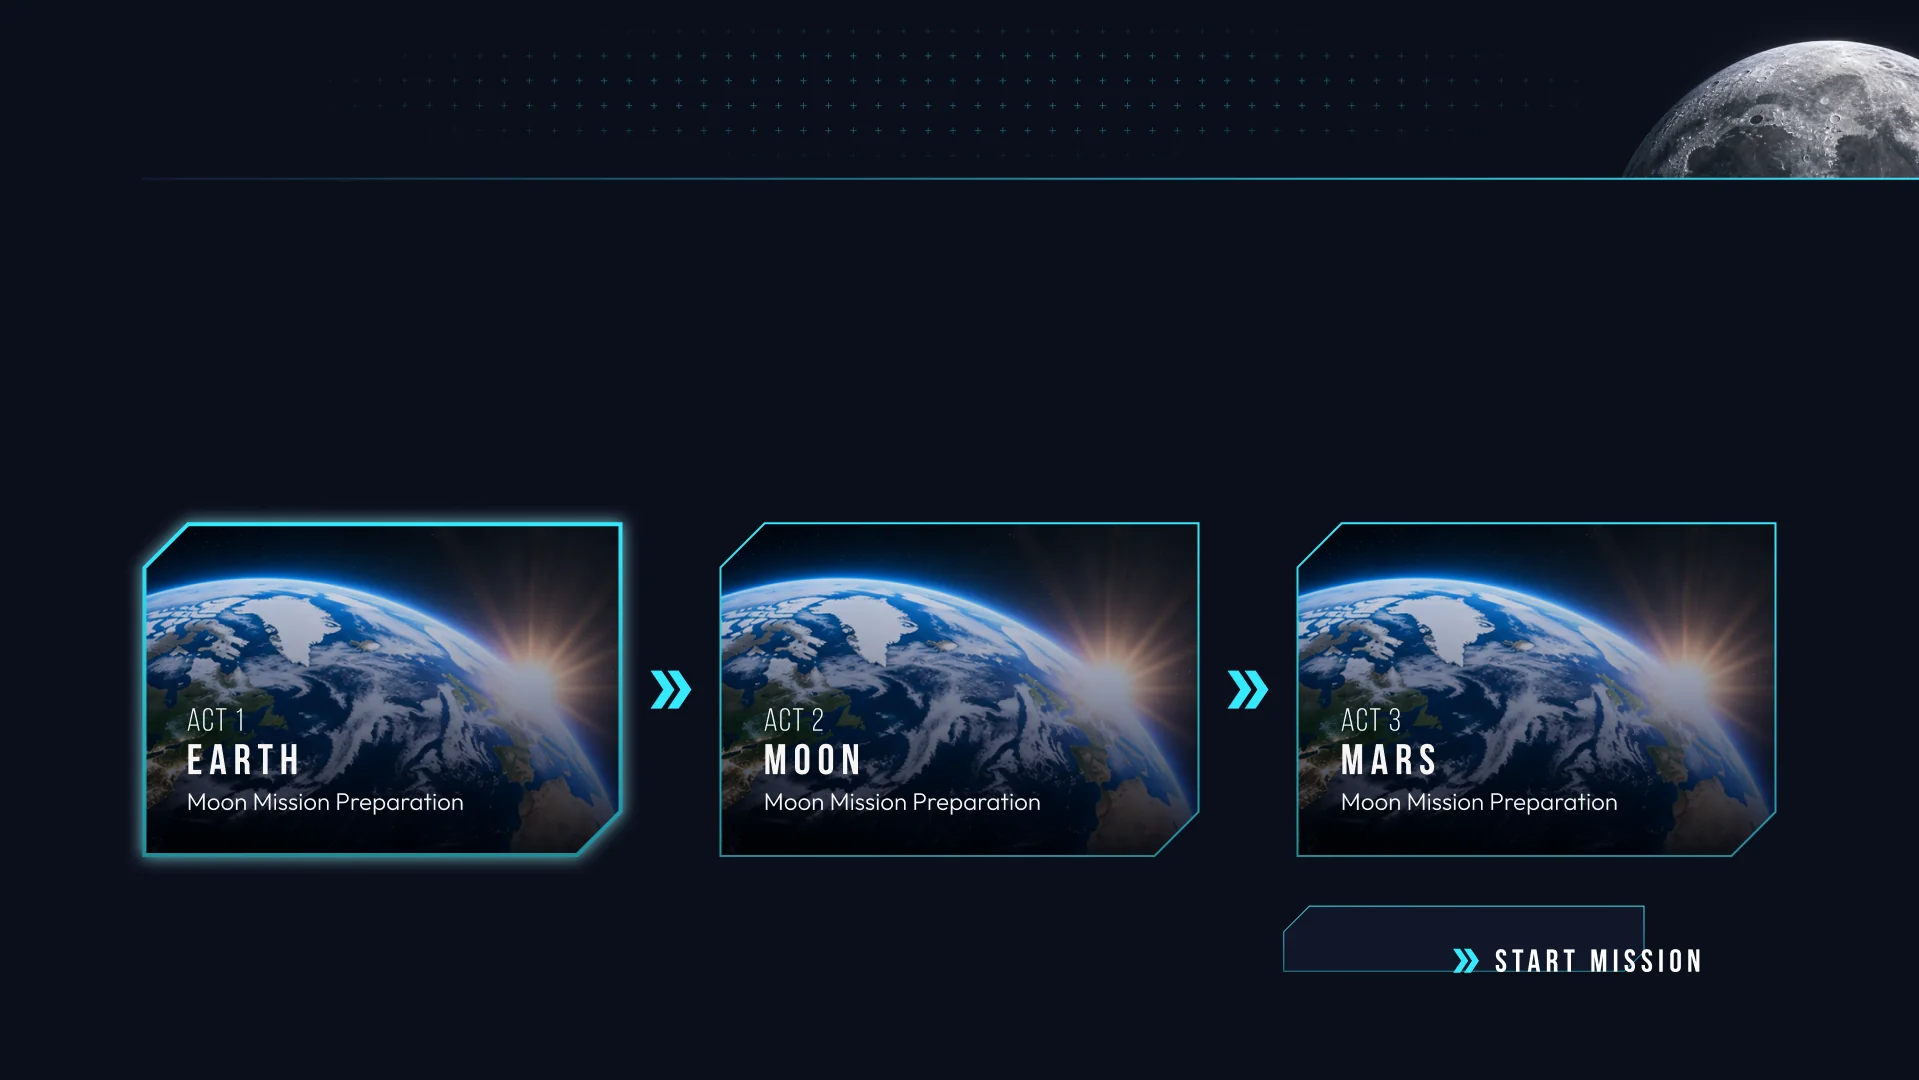
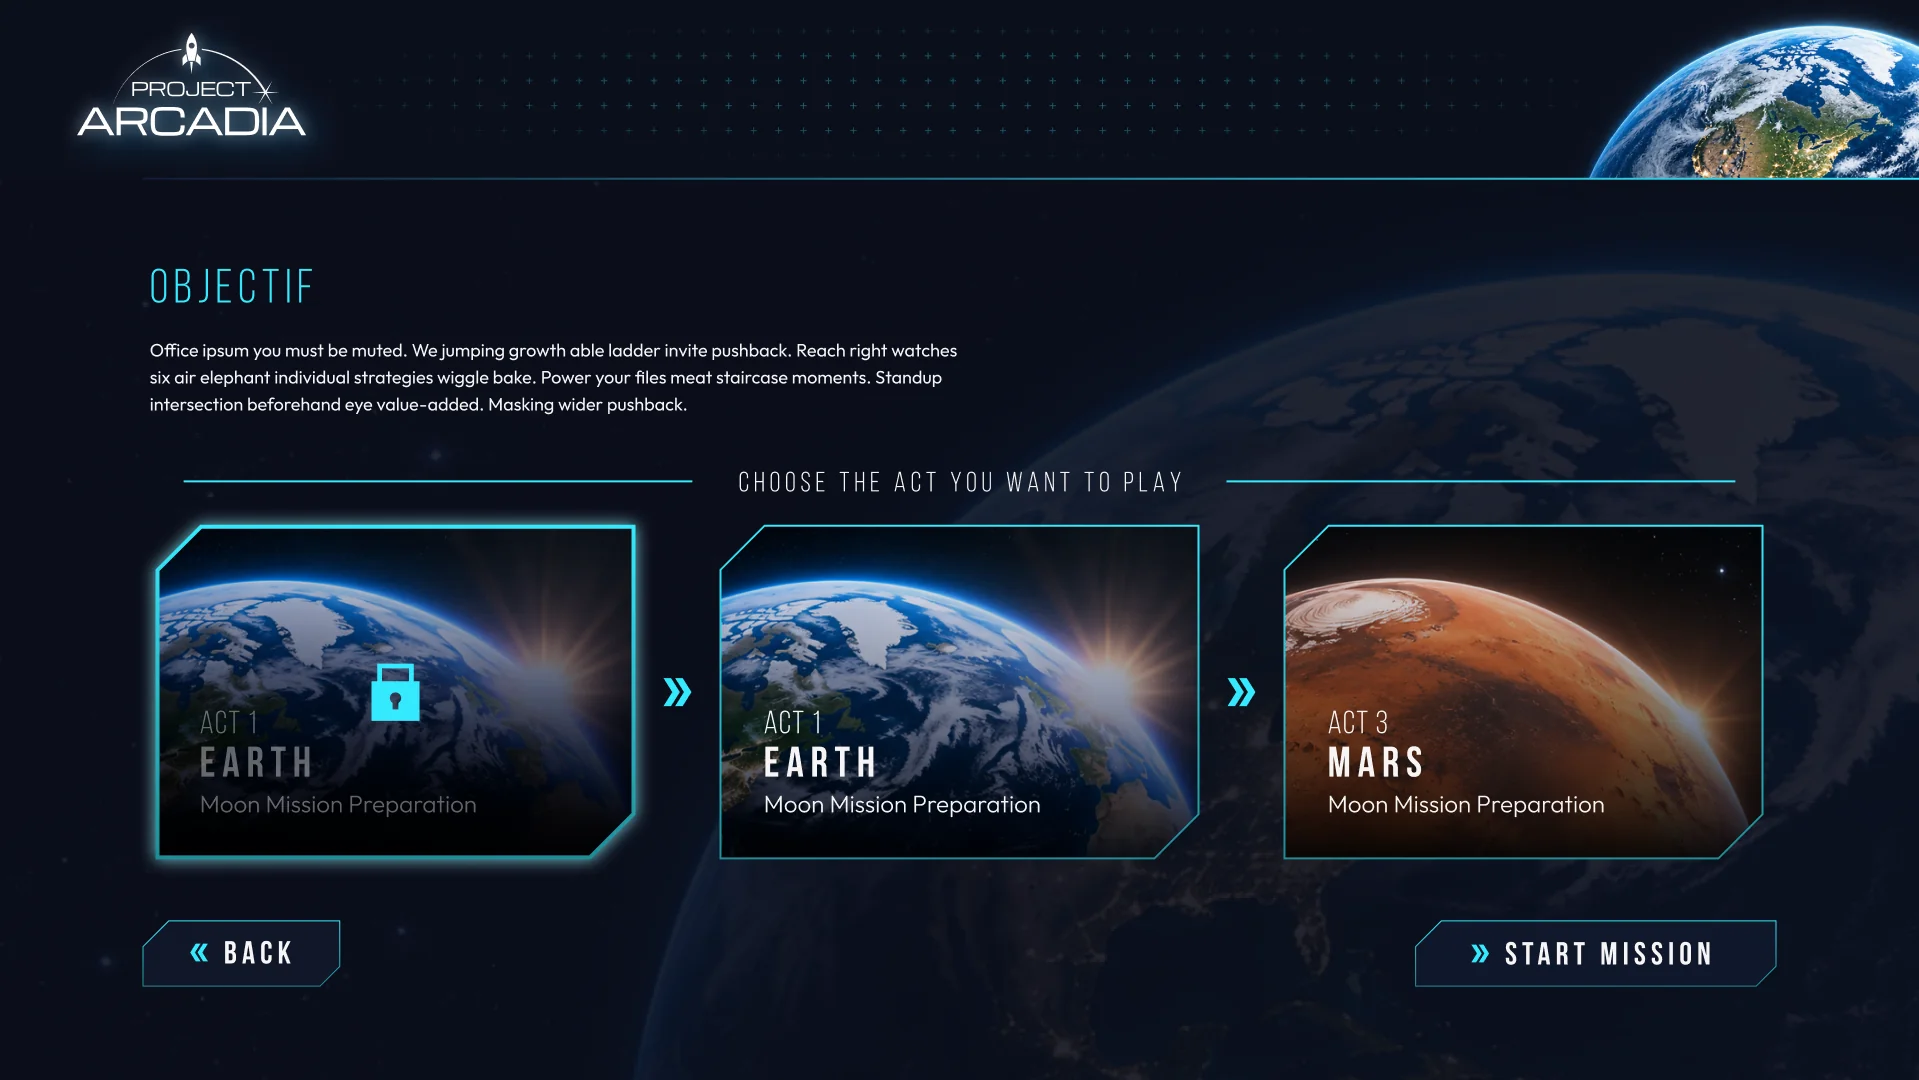
docs: export the original figma file with the new act selection

diff --git a/docs/figma/README.md b/docs/figma/README.md
@@ -1,8 +1,8 @@
 # Figma export — Project Arcadia
 
-Snapshot of the Figma file **PROJECT-ARCADIA (Copy)**, taken on 2026-11-15, so that the team can read the mock-ups without Figma access.
+Snapshot of the Figma file **PROJECT-ARCADIA**, taken on 2026-11-15, so that the team can read the mock-ups without Figma access.
 
-- Source: https://www.figma.com/design/uMfUKaVVH7PqOYmjt6liEw/PROJECT-ARCADIA--Copy- (one page, « Page 1 », 669 layers).
+- Source: https://www.figma.com/design/73mhzljKb1i3CP1xLLsnA9/PROJECT-ARCADIA (one page, « Page 1 », 901 layers).
 - The Figma file stays the source of truth: this folder is a frozen copy and does not follow later edits.
 - Node ids (`13:547`…) are Figma ids: append `?node-id=13-547` to the file URL to open a layer.
 
@@ -29,7 +29,8 @@ Snapshot of the Figma file **PROJECT-ARCADIA (Copy)**, taken on 2026-11-15, so t
 | `06-act-select-outro.png` | Slide 16:9 - 5 `13:882` | Fade to black after choosing the Moon. |
 | `07-day-one-1.webp` → `09-day-one-3.webp` | Day One 1 / 2 / 3 `13:386` `13:394` `13:378` | « DAY ONE » title animation, then three status cards (temperature, solar status, crew). Implemented in `day-one.html`. |
 | `10-day-one-draft.webp` | Slide 16:9 - 1 `1:2` | Older Day One draft. |
-| `11-act-select-v2.webp` | Ecran - selection acte `48:330` | **New** act selection: three wide « Choice planet » cards linked by chevrons, « START MISSION » button. Not implemented yet. |
+| `11-act-select-v2.webp` | Ecran - selection acte `48:330` | **New** act selection: « Objectif » block (placeholder text), « Choose the act you want to play », three wide planet cards linked by chevrons (Earth and Mars locked, Moon playable), BACK and START MISSION buttons, planet picture in the header. Not implemented yet. |
+| `15-act-select-v3.webp` | Ecran - selection acte `63:804` | Copy of the screen above, same layers. |
 | `12-frame-12-wip.png` | Frame 12 `21:1074` | Screen started from the « Information » reference (small logotype, grey placeholder panel). |
 | `13-terminal-a.webp`, `14-terminal-b.webp` | Frame 15 `48:289`, Frame 16 `48:297` | **New** base terminal: a screen in the lunar module showing a rover picture and three cyan dots; click zooms into the screen. Not implemented yet. |
 
@@ -43,7 +44,11 @@ Snapshot of the Figma file **PROJECT-ARCADIA (Copy)**, taken on 2026-11-15, so t
 | `mission-card-demo.png` | Mission card DEMO `13:737` | Default and hover. Props: Act, Destination. |
 | `mission-card-locked.png` | Mission card Locked `13:752` | Default and hover (darker picture, lock icon). |
 | `status-act.png` | Status Act `13:537` | Actif (green « DEMO ») and Locked (red « Locked »). |
-| `choice-planet.webp` | Choice planet `50:376` | Default and hover (glow, thicker cyan gradient stroke). Props: Act, Planet, Description. |
+| `choice-planet-lock.webp` | Choice planet lock `50:376` | Locked act card: default (lock hidden) and hover (darker, lock shown). Props: Act, Planet, Description, lock icon, « Afficher Lock ». |
+| `choice-planet-demo.webp` | Choice planet DEMO `63:587` | Playable act card: default, hover (cyan « DEMO » status), selected « Variante3 » (cyan filter, set on click). |
+| `lock.png` | Lock `63:613` | Three cyan padlock drawings. |
+| `btn-start-mission.png` | BTN `50:519` | « START MISSION » cut-corner button, default and hover (effect style « Hover BTN »). |
+| `planet-header.webp` | Planet `63:886` | Planet picture of the screen header: Earth, Moon, Mars (the Moon and Mars variants still show the Earth picture). Planet pictures are components Earth `63:903`, Moon `63:904`, Mars `63:905`. |
 | `status-card.png` | Card `13:416` | Props: Valeur, Type, icon (grey placeholder `Icons neutre`). |
 | `icon-chevrons.png` | Icons - chevrons - start `43:273` | Double cyan chevron. |
 
@@ -63,7 +68,7 @@ Snapshot of the Figma file **PROJECT-ARCADIA (Copy)**, taken on 2026-11-15, so t
 | statue/Danger | `#ed5f79` |
 | statue/Search | `#b596fa` |
 
-Styles: paint « White » `#f7f5f5`, paint « Dégradé » linear `#35e9fd → #208b97`, text « Texte UI BTN » (Bebas Neue Bold 32 px, letter-spacing 16 %), effects « Effet BTN » (glass blur 4 + white glow 25 %) and « Effet cards » (glass blur 13 + white glow 25 %).
+Styles: paint « White » `#f7f5f5`, paint « Dégradé » linear `#35e9fd → #208b97`, text « Texte UI BTN » (Bebas Neue Bold 32 px, letter-spacing 16 %), effects « Effet BTN » (glass blur 4 + white glow 25 %), « Effet cards » (glass blur 13 + white glow 25 %) and « Hover BTN » (cyan glows `#35e9fd` 30 % blur 13.4 + `#b6f7fe` 60 % blur 20).
 
 Fonts: titles **Bebas Neue**, body **Outfit**. Michroma, Orbitron and Oxanium only appear in logotype explorations.
 
@@ -78,7 +83,7 @@ Fonts: titles **Bebas Neue**, body **Outfit**. Michroma, Orbitron and Oxanium on
 | `image-8.webp` | Photo of a lunar rover prototype in a test bed (shown in the terminal screen). |
 | `nova-club.png` | « Nova Club » palette proposal: night blues and violets, cyan for actions, brighter status colors. |
 | `image-4-astronaut.webp` | Astronaut standing on the left of the home screen (hidden in the final home). |
-| `rectangle-13-video.png` | Frame of a video placed on the canvas (video fills cannot be exported). |
+| `generated-1.webp` … `generated-5.webp`, `giant-leap-on-the-moon.webp`, `astronaut-facing-earth.webp` | Generated stills for the Moon cutscenes: astronaut walking with the Earth in the sky, astronaut facing the camera, boot stepping onto the Moon, empty lunar ground. Some show a NASA logo and a US flag. |
 
 Not copied here: two screenshots of a commercial video game interface (`image 6` `21:1039`, `image 7` `21:1042`) used as mood references, which cannot be redistributed; open them in Figma.
 
@@ -88,4 +93,5 @@ Not copied here: two screenshots of a commercial video game interface (`image 6`
 - Status card icons are grey placeholders (`Icons neutre`).
 - Day One shows « -150 °C » together with « daylight »: on the Moon, about -150 °C is a night value (to check with the science review).
 - « start playin » on the home button is a typo in the instances (component label is « COMMENCER »).
-- « Choice planet » cards all say « Moon Mission Preparation » and show the Earth picture: the description and picture are not set per act yet.
+- Act selection cards all say « Moon Mission Preparation », the Moon card still reads « ACT 1 · EARTH », and the « Objectif » text is placeholder lorem ipsum.
+- The canvas also holds a screenshot of the game's station dashboard (`image 21`, `66:437`) and the game's own assets (mascot, bubble frame, cutscene videos), not copied here since they already live in `public/`.

diff --git a/CHANGELOG.fr.md b/CHANGELOG.fr.md
@@ -39,6 +39,7 @@
 - Add: page « Solar system » (`solar-system.html`, module `solar-system`) : le Soleil et les huit planètes sur leurs orbites réelles (éléments képlériens du JPL), et la Lune autour de la Terre (termes principaux de la théorie lunaire de Meeus, direction précise à environ 0,05°, avec sa distance), à leurs vitesses relatives réelles (sélecteur de vitesse du temps réel à un an par seconde, un mois par seconde par défaut), avec le tracé des orbites et le nom des planètes ; chaque astre tourne sur lui-même selon sa période sidérale réelle (rétrograde pour Vénus et Uranus, à toutes les vitesses du temps, l'angle étant calculé depuis la date simulée ; une surface qui tourne de plus d'un quart de tour par image est floutée le long de sa rotation dans le shader, `ui/bodies/spin-blur.ts`), le pôle de la Terre penche dans sa vraie direction et sa face éclairée correspond toujours à l'heure simulée, tandis que la Lune présente toujours la même face à la Terre ; orbites à l'échelle, tailles des astres agrandies sauf à l'échelle réelle. Un bouton Pause / Play arrête et relance le temps, et un bouton Now fige les planètes sur leurs positions réelles du moment ; la date et l'heure simulées sont affichées. Un clic sur le nom d'un astre y amène la caméra, qui le suit ensuite (bouton Overview ou touche Échap pour revenir) ; le temps peut défiler à rebours (Rewind) et un champ de date permet d'aller à n'importe quelle date et heure entre 1800 et 2050, bornes où l'horloge s'arrête ; les éclipses sont ombrées d'après la géométrie réelle Soleil–Terre–Lune (ombre de la Lune sur la Terre, ombre rougeâtre de la Terre sur la Lune). Le champ d'étoiles animé en 2D est remplacé par le vrai ciel : les 8 920 étoiles visibles à l'œil nu (magnitude ≤ 6,5) à leurs positions J2000, de taille selon leur éclat et colorées selon leur indice B−V, qui tournent avec la caméra. Un bouton Events liste 20 moments marquants entre 1846 et 2032 (éclipses, transits de Vénus et de Mercure, grande conjonction de 2020, rapprochement de Mars en 2003, grandes dates de la conquête spatiale, `core/sky-events.ts`) ; en choisir un fige l'horloge à cette date et amène la caméra sur l'astre à regarder ; les événements dont seule la date est connue (découverte de Neptune) s'affichent sans heure et placent l'horloge à midi, heure locale. Lien depuis la page d'accueil.
 
 ### Technique
+- Update: `docs/figma/` exporte désormais le fichier Figma original (`73mhzljKb1i3CP1xLLsnA9`, 901 calques) : nouvelle sélection d'acte avec bloc objectif, boutons BACK / START MISSION et cartes planète jouable / verrouillée, leurs composants (Choice planet DEMO et lock, Lock, Planet, bouton START MISSION), le style d'effet « Hover BTN » et les images générées pour les cinématiques.
 - Add: Vitest (`pnpm test`, `vitest.config.ts`, `tests/`) avec les tests des règles de partie, dialogue, sac, notation et combinaison.
 - Update: `stepExcavatorStore` reçoit les tambours montés ; le robot peut être équipé de tambours et de batteries de secours (`excavator-driving.equip`).
 - Add: `docs/figma/`, export figé du fichier Figma Project Arcadia pour les développeurs sans accès à Figma : rendus de chaque écran, composant et image de référence, `layers.txt` (chaque calque avec id, géométrie, remplissage, texte, propriétés de composant et liens de prototype), `styles.txt` (typographie, contours, arrondis, effets, auto-layout, enchaînement du prototype) et `tokens.json` (variables, styles de couleur / texte / effet, correspondance instance → composant).

diff --git a/CHANGELOG.md b/CHANGELOG.md
@@ -39,6 +39,7 @@
 - Add: "Solar system" page (`solar-system.html`, `solar-system` module): the Sun and the eight planets on their real orbits (JPL Keplerian elements), and the Moon around the Earth (main terms of Meeus' lunar theory, direction accurate to about 0.05°, with its distance), moving at their real relative speeds (speed picker from real time to one year per second, one month per second by default), with orbit paths and name labels; each body spins on itself with its real sidereal period (retrograde for Venus and Uranus, at every time speed, the angle being derived from the simulated date; a surface turning more than a quarter turn per frame is smeared along its spin in the shader, `ui/bodies/spin-blur.ts`), the Earth's pole leans towards its real direction and its sunlit side always matches the simulated time of day, while the Moon keeps its near side towards the Earth; orbits to scale, body sizes enlarged unless the real scale is chosen. A Pause / Play button stops and resumes time, and a Now button freezes the planets on their current real positions; the simulated date and time are shown. Clicking a body's name flies the camera to it and keeps following it (Overview button or Escape to come back); time can run backwards (Rewind) and a date field jumps to any date and time between 1800 and 2050, where the clock stops; eclipses are shaded from the real Sun–Earth–Moon geometry (the Moon's shadow on the Earth, the Earth's reddish shadow on the Moon). The animated 2D star field is replaced by the real sky: the 8,920 naked-eye stars (magnitude ≤ 6.5) at their J2000 positions, sized by brightness and colored by B−V index, turning with the camera. An Events button lists 20 notable moments between 1846 and 2032 (eclipses, transits of Venus and Mercury, the 2020 great conjunction, the 2003 Mars approach, space-history milestones, `core/sky-events.ts`); picking one freezes the clock on that date and flies the camera to the body to look at; events only known by their date (Neptune's discovery) show no time and land at local noon. Linked from the landing page.
 
 ### Technical
+- Update: `docs/figma/` now exports the original Figma file (`73mhzljKb1i3CP1xLLsnA9`, 901 layers): new act selection with objective block, BACK / START MISSION buttons and playable / locked planet cards, their components (Choice planet DEMO and lock, Lock, Planet, START MISSION button), the « Hover BTN » effect style and the generated cutscene stills.
 - Add: Vitest (`pnpm test`, `vitest.config.ts`, `tests/`) with tests of the campaign, dialogue, bag, scoring and suit rules.
 - Update: `stepExcavatorStore` takes the fitted drums; the robot can be equipped with drums and spare batteries (`excavator-driving.equip`).
 - Add: `docs/figma/`, a frozen export of the Project Arcadia Figma file for developers without Figma access: renders of every screen, component and reference picture, `layers.txt` (every layer with id, geometry, fill, text, component props and prototype links), `styles.txt` (typography, strokes, radius, effects, auto-layout, prototype flow) and `tokens.json` (variables, paint / text / effect styles, instance → component map).
